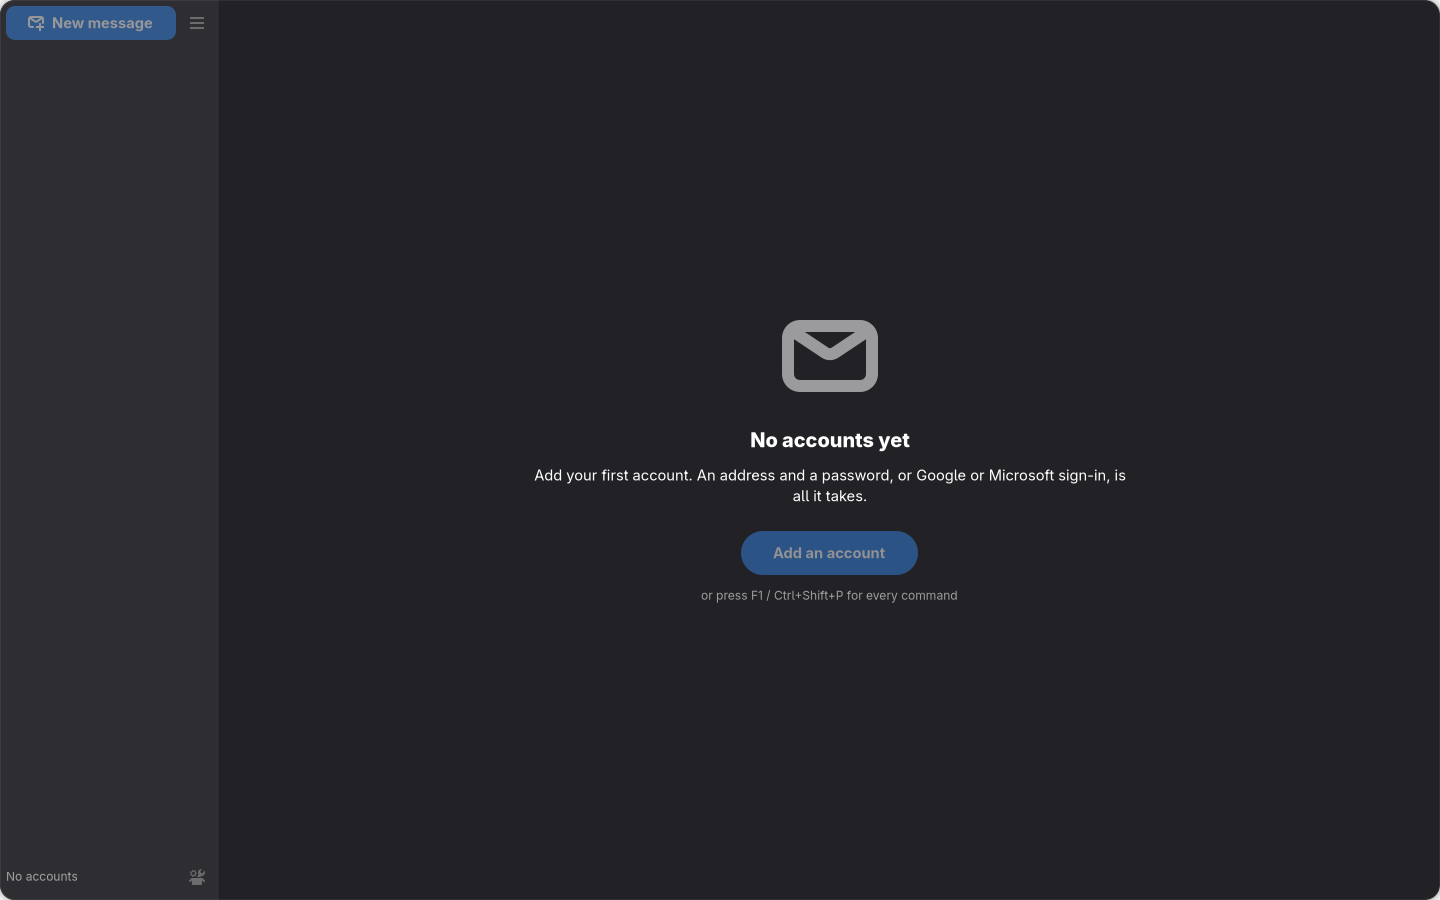
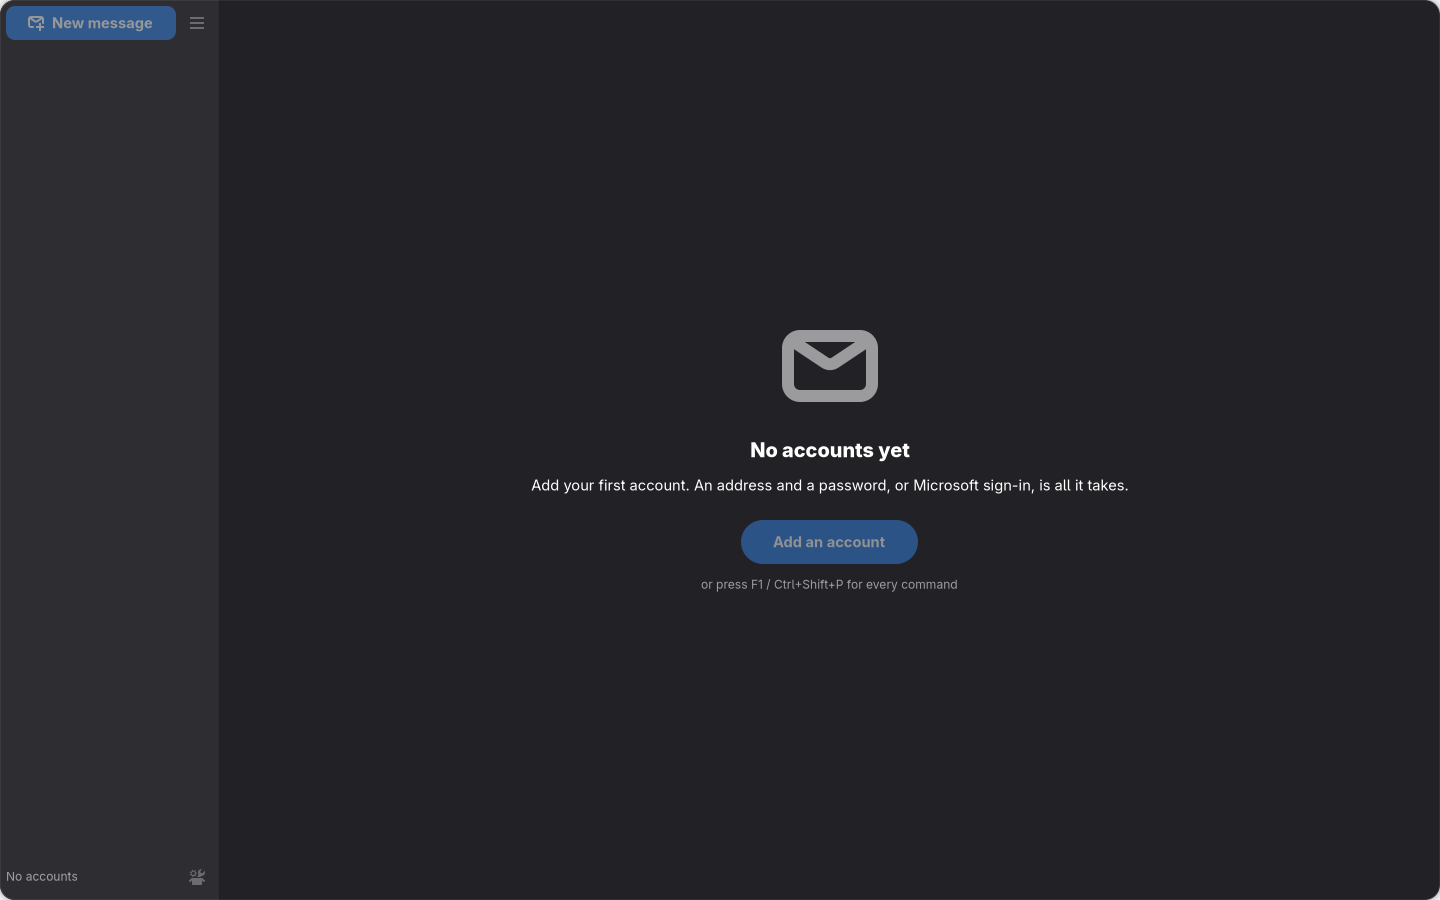
window: the welcome text names Microsoft sign-in only
Sign in with Google is deferred to 1.x (main, 2026-10-04), so "No
accounts yet" no longer offers it. The no-account preview is
regenerated.

Changed region(s): [[0.375, 0.3422, 0.7812, 0.6844]]

diff --git a/app/src/window/empty.rs b/app/src/window/empty.rs
@@ -32,8 +32,8 @@ pub fn no_account() -> (adw::StatusPage, gtk::Button) {
     let page = status_page(
         "mail-unread-symbolic",
         "No accounts yet",
-        "Add your first account. An address and a password, or Google or Microsoft sign-in, \
-         is all it takes.",
+        "Add your first account. An address and a password, or Microsoft sign-in, is all it \
+         takes.",
         "sealwax-no-account",
     );
     page.set_child(Some(&actions));
